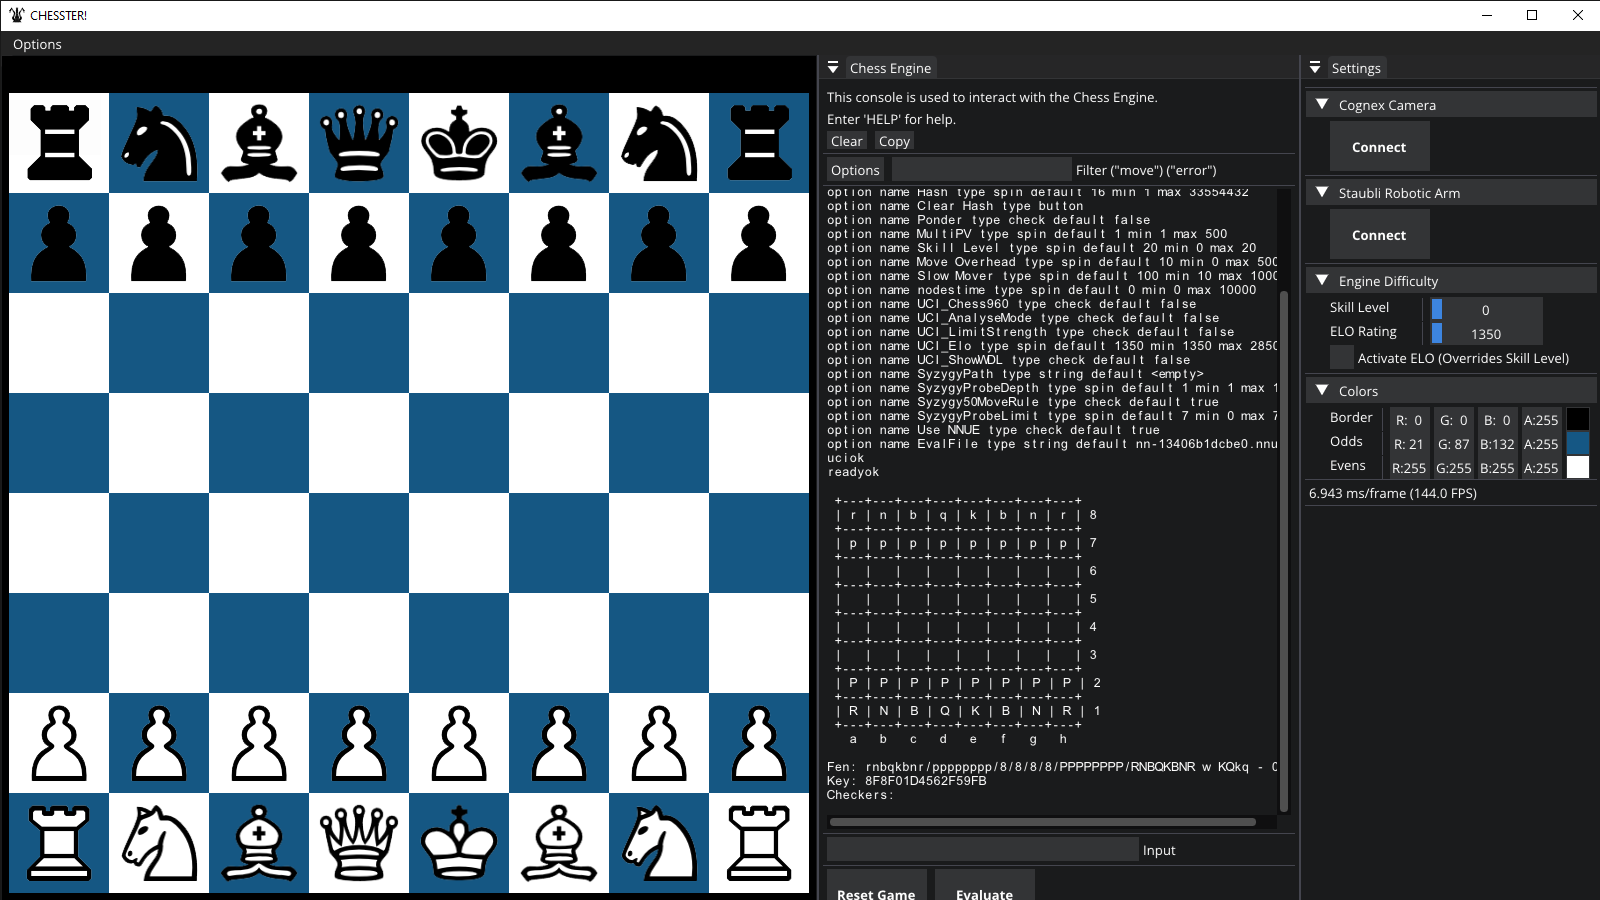
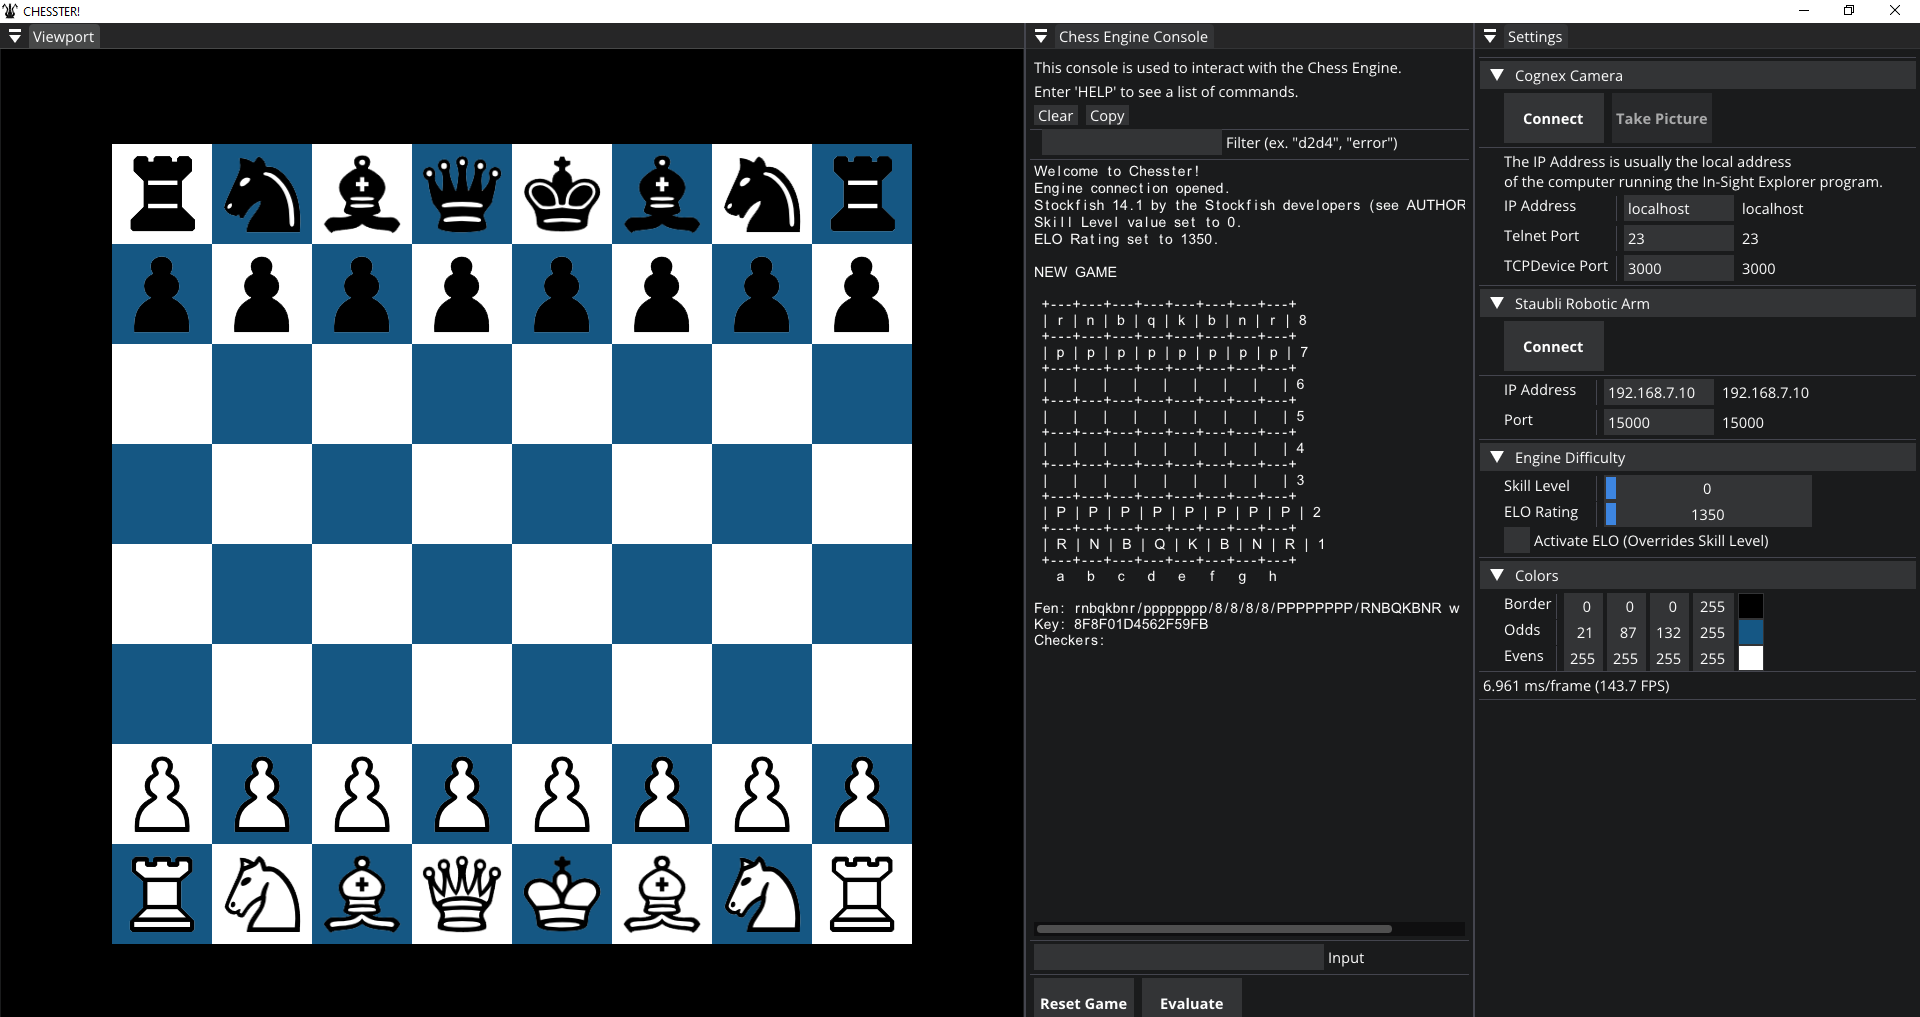
Added checkbox to enable/disable Gamelayer events + other small changes

diff --git a/Chesster/src/Chesster/Core/Application.cpp b/Chesster/src/Chesster/Core/Application.cpp
@@ -20,9 +20,9 @@ namespace Chesster
 		LOG_INFO("Welcome to the Chesster Universal Chess Interface!");
 		
 		// Create the window
-		m_Window = std::make_unique<Window>(WindowProps(name, 1600, 900));
+		m_Window = std::make_unique<Window>(WindowProps(name, 1280, 720));
 
-		// Create the starting layers		
+		// Create the starting layers
 		m_ImGuiLayer = std::make_shared<ImGuiLayer>();
 		PushLayer(m_ImGuiLayer);
 
@@ -94,31 +94,27 @@ namespace Chesster
 
 		// Window events
 		if (sdlEvent.type == SDL_WINDOWEVENT)
-			m_Window->OnWindowEvent(sdlEvent);		
+			m_Window->OnWindowEvent(sdlEvent);
 
 		// Handle layer events
 		for (auto& layer : m_LayerStack)
 			layer->OnEvent(sdlEvent);
 
 		// Apply pending layer changes (pushes and pops)
-		if (m_PendingChanges.size())
+		for (auto& pendingChange : m_PendingChanges)
 		{
-			for (auto& pendingChange : m_PendingChanges)
+			switch (pendingChange.Action)
 			{
-				switch (pendingChange.Action)
-				{
-					case Layer::Action::PushLayer:
-						PushLayer(pendingChange.Layer);
-						break;
+				case Layer::Action::PushLayer:
+					PushLayer(pendingChange.Layer);
+					break;
 
-					case Layer::Action::PopLayer:
-						PopLayer(pendingChange.Layer);
-						break;
-				}
+				case Layer::Action::PopLayer:
+					PopLayer(pendingChange.Layer);
+					break;
 			}
-
-			m_PendingChanges.clear();
 		}
+		m_PendingChanges.clear();
 	}
 
 	void Application::PushLayer(const std::shared_ptr<Layer>& layer)

diff --git a/Chesster/src/Chesster/Layers/GameLayer.h b/Chesster/src/Chesster/Layers/GameLayer.h
@@ -30,6 +30,8 @@ namespace Chesster
 
 		void SetCameraDataReceived(bool boolean) { m_CameraDataReceived = boolean; }
 
+		void SetEventsActive(bool active) { m_IsEventsActive = active; }
+
 		Board& GetBoard() { return m_Board; }
 
 		ChessEngine& GetChessEngine() { return m_ChessEngine; }
@@ -87,6 +89,8 @@ namespace Chesster
 
 		Player m_CurrentPlayer{ Player::White };
 		GameState m_CurrentGameState{ GameState::Gameplay };
+
+		bool m_IsEventsActive{ true };
 		
 		std::unique_ptr<Network> m_Network;
 		ConsolePanel m_ConsolePanel;

diff --git a/Chesster/src/Chesster/Layers/GameLayer.cpp b/Chesster/src/Chesster/Layers/GameLayer.cpp
@@ -44,7 +44,7 @@ namespace Chesster
 
 	void GameLayer::OnEvent(SDL_Event& sdlEvent)
 	{
-		if (m_CurrentGameState == GameState::Gameplay)
+		if (m_IsEventsActive && m_CurrentGameState == GameState::Gameplay)
 		{
 			switch (sdlEvent.type)
 			{
@@ -148,7 +148,7 @@ namespace Chesster
 
 	void GameLayer::OnRender()
 	{
-		// Render to ImGui's viewport window
+		// Render to Viewport window
 		m_Framebuffer.Bind();
 
 		Renderer::SetClearColor(m_SettingsPanel.GetClearColor());

diff --git a/Chesster/src/Chesster/ImGui/Panels/SettingsPanel.cpp b/Chesster/src/Chesster/ImGui/Panels/SettingsPanel.cpp
@@ -223,6 +223,11 @@ namespace Chesster
 		ImGui::Text("%.3f ms/frame (%.1f FPS)", 1000.0f / ImGui::GetIO().Framerate, ImGui::GetIO().Framerate);
 		ImGui::Separator();
 
+		// Activate/deactivate mouse picking
+		static bool isMouseActive{ true };
+		if (ImGui::Checkbox("Allow Mouse/Keyboard events", &isMouseActive))
+			GameLayer::Get().SetEventsActive(isMouseActive);
+
 		ImGui::End(); // End "Settings"
     }
 
